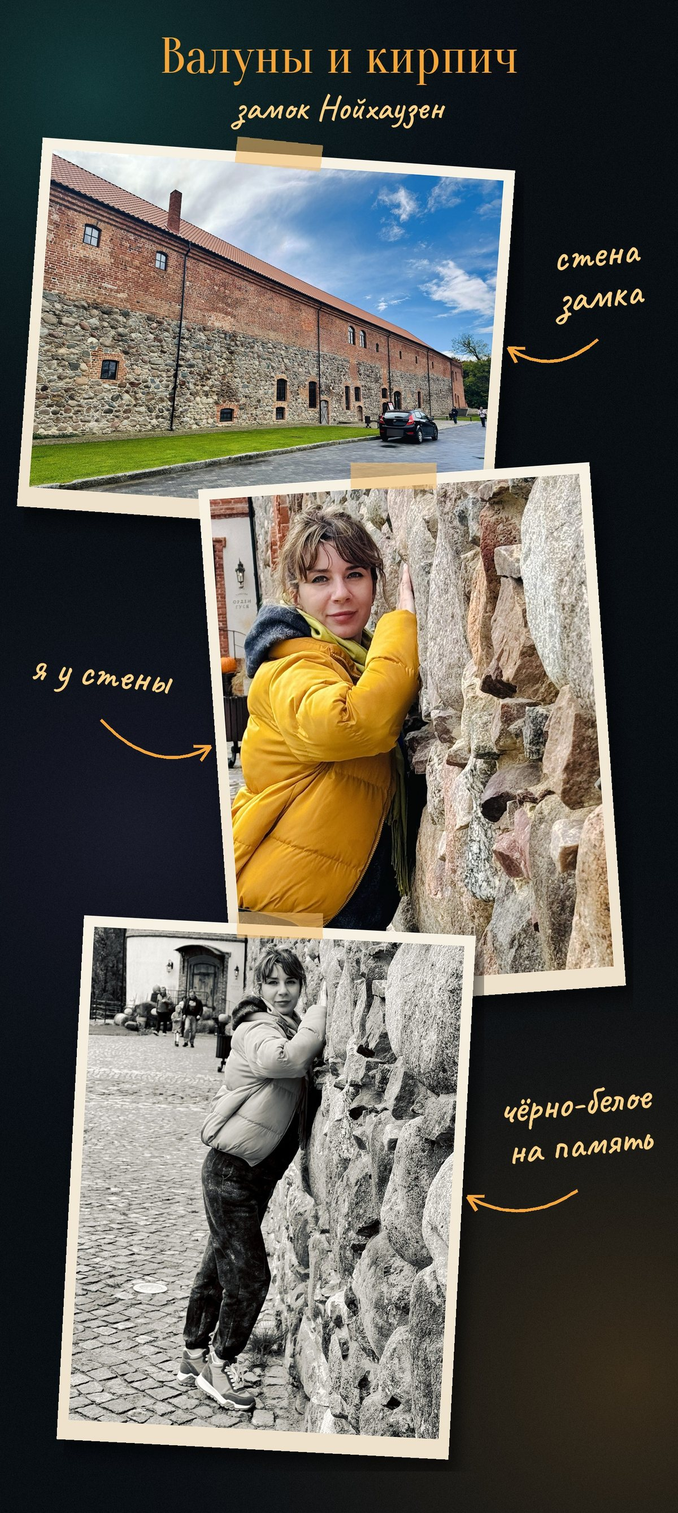
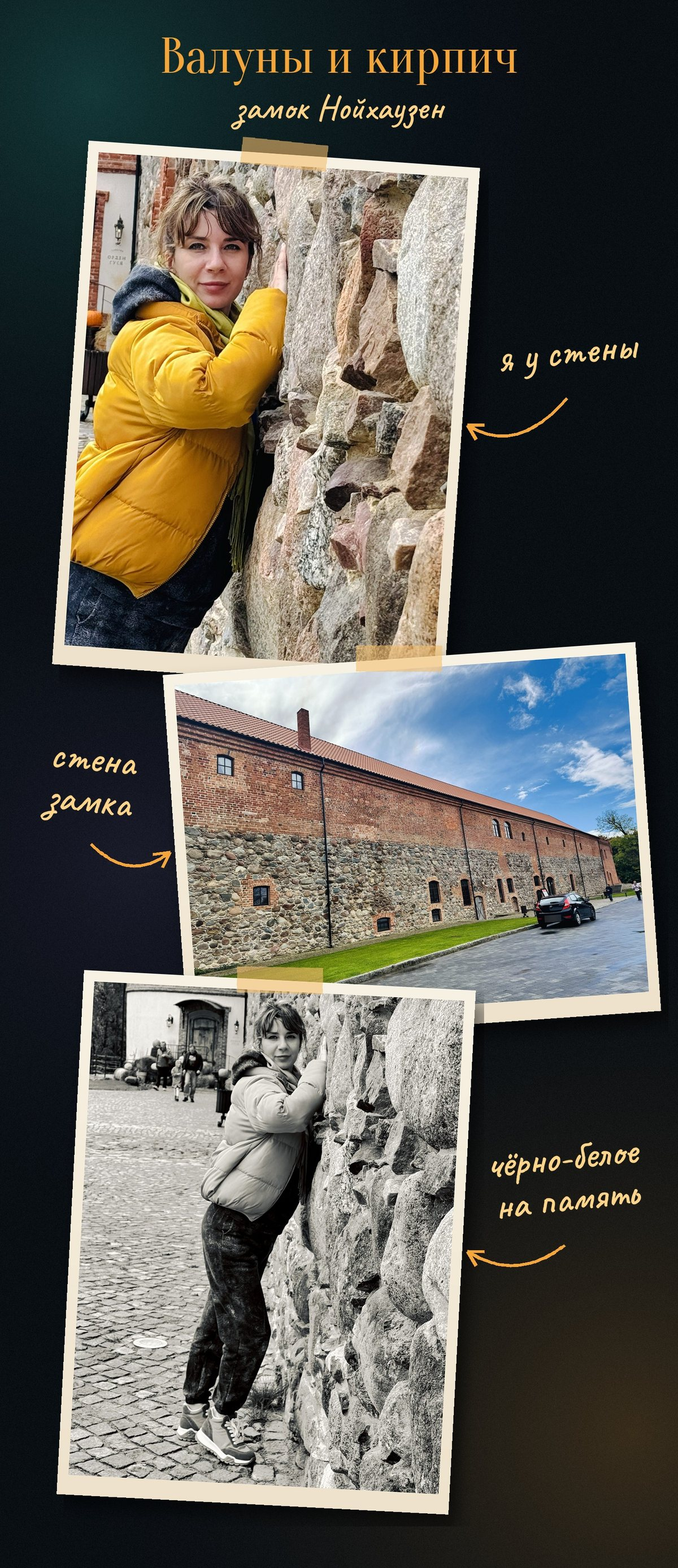
Альбом «Калининград»: страница «Валуны и кирпич» — стена замка в центре
По просьбе: сверху «я у стены», в центре «стена замка», снизу «чёрно-белое на память».

Claude-Session: https://claude.ai/code/session_01BUmNQ2Kk9fTi5P6tnA3gYJ

diff --git a/kaliningrad/album/index.html b/kaliningrad/album/index.html
@@ -675,7 +675,7 @@ body.picking .wrap{padding-bottom:calc(var(--nav-h) + 230px + env(safe-area-inse
  {"id": "d1-67", "day": 1, "type": "video", "src": "photos/d1-67.mp4", "poster": "photos/d1-67.jpg", "thumb": "photos/t/d1-67.jpg", "w": 720, "h": 1280, "dur": 6.4, "town": "svg", "title": "Балтийское море в Светлогорске", "date": "2026-10-11", "sea": true, "film": false},
  {"id": "d2-80", "day": 2, "src": "photos/d2-80.jpg", "thumb": "photos/t/d2-80.jpg", "w": 1200, "h": 2452, "place": "neuh", "title": "Замок Нойхаузен", "date": "2026-10-12", "collage": true},
  {"id": "d2-81", "day": 2, "src": "photos/d2-81.jpg", "thumb": "photos/t/d2-81.jpg", "w": 1200, "h": 2906, "town": "gur", "title": "Кирха 1292 года", "date": "2026-10-12", "collage": true},
- {"id": "d2-82", "day": 2, "src": "photos/d2-82.jpg", "thumb": "photos/t/d2-82.jpg", "w": 1200, "h": 2679, "place": "neuh", "title": "Валуны и кирпич", "date": "2026-10-12", "collage": true},
+ {"id": "d2-82", "day": 2, "src": "photos/d2-82.jpg?v=2", "thumb": "photos/t/d2-82.jpg?v=2", "w": 1200, "h": 2775, "place": "neuh", "title": "Валуны и кирпич", "date": "2026-10-12", "collage": true},
  {"id": "d2-83", "day": 2, "src": "photos/d2-83.jpg", "thumb": "photos/t/d2-83.jpg", "w": 1200, "h": 2906, "place": "neuh", "title": "Мамуля у древних стен", "date": "2026-10-12", "collage": true},
  {"id": "d2-84", "day": 2, "src": "photos/d2-84.jpg", "thumb": "photos/t/d2-84.jpg", "w": 1200, "h": 2906, "place": "neuh", "title": "Мамуля и барон Мюнхгаузен", "date": "2026-10-12", "collage": true},
  {"id": "d2-85", "day": 2, "src": "photos/d2-85.jpg", "thumb": "photos/t/d2-85.jpg", "w": 1200, "h": 2906, "place": "neuh", "title": "Я и барон Мюнхгаузен", "date": "2026-10-12", "collage": true},
